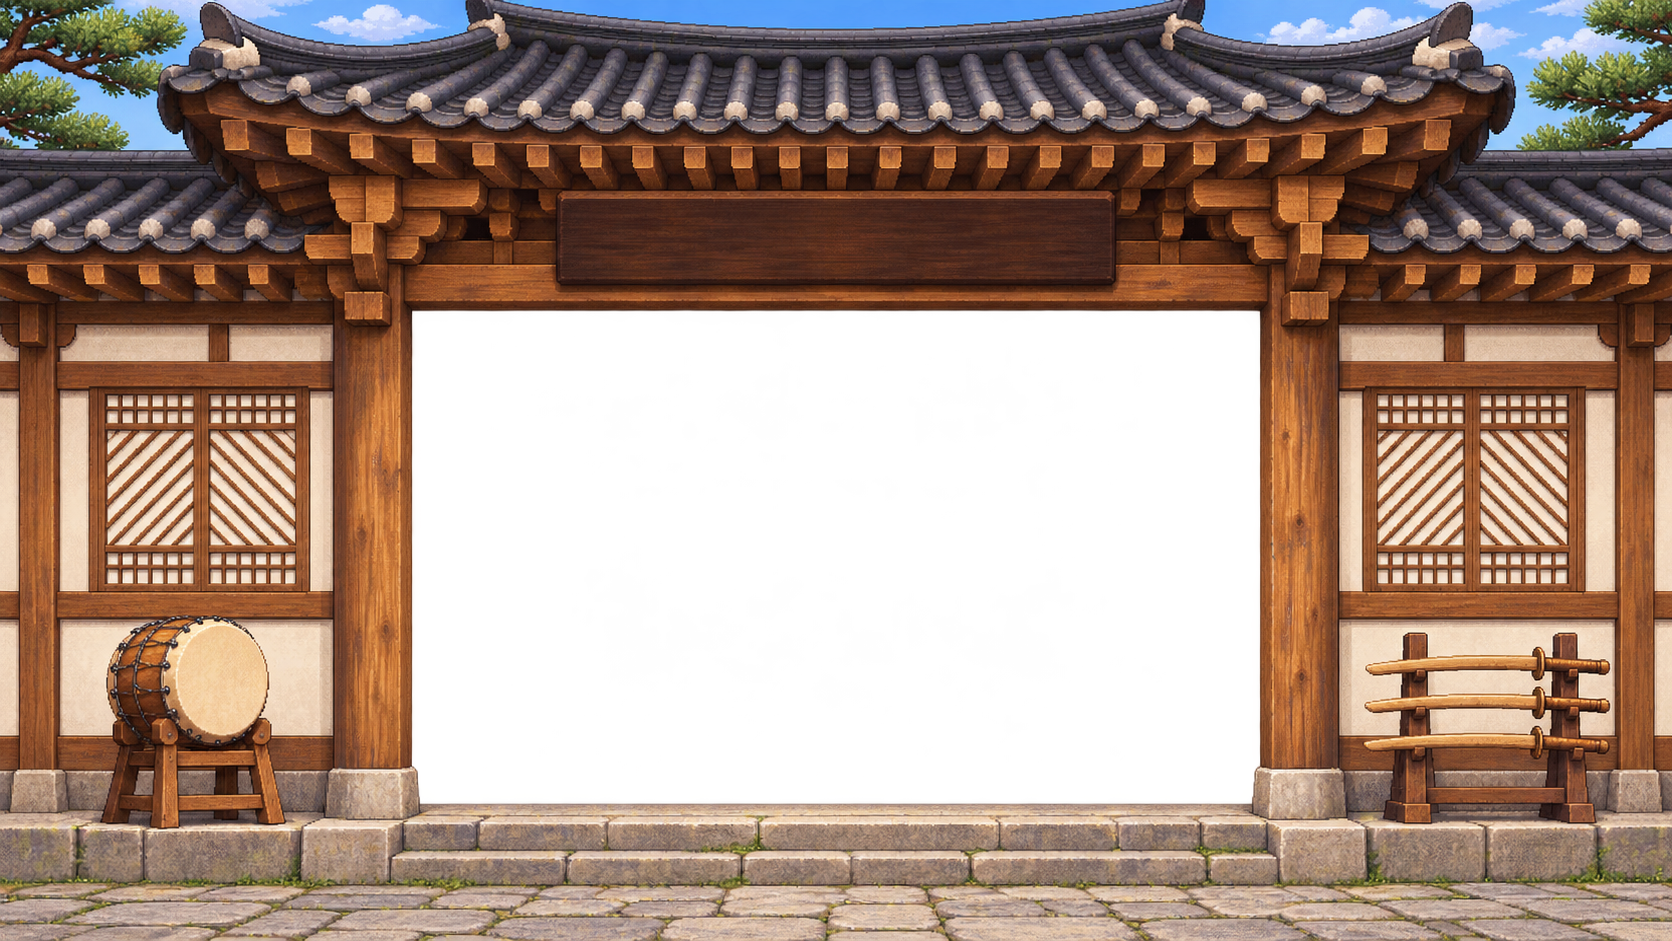
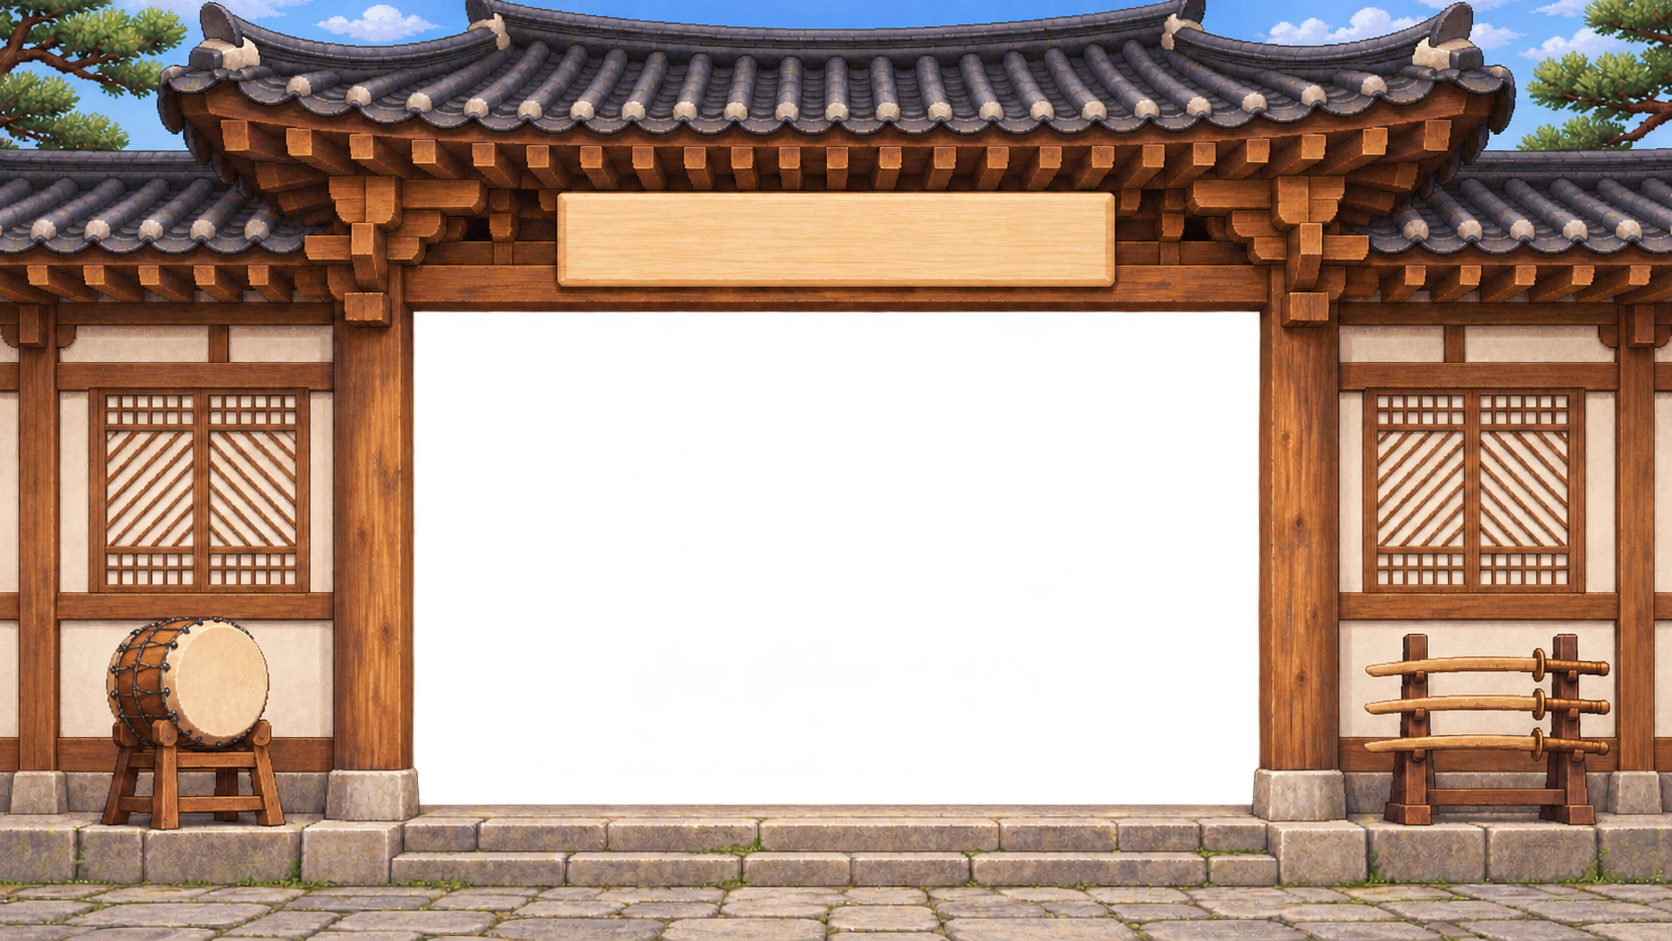
Lighten title plaque and disable lettering bounce

diff --git a/Assets/Game/Scripts/Editor/UILayout/DojoRenewalLayoutBuilder.cs b/Assets/Game/Scripts/Editor/UILayout/DojoRenewalLayoutBuilder.cs
@@ -66,13 +66,14 @@ namespace RhythmDojo.EditorTools
             entrance.rightDoor.offsetMin = entrance.rightDoor.offsetMax = Vector2.zero;
 
             view.ambientLights = System.Array.Empty<Image>();
-            Place((RectTransform)view.logo.transform, new Vector2(.5f, .746f), Vector2.zero, new Vector2(410, 76));
+            Place((RectTransform)view.logo.transform, new Vector2(.5f, .746f), Vector2.zero, new Vector2(410, 70));
             view.logoArtwork.gameObject.SetActive(false);
             view.title.enabled = true;
-            view.title.color = new Color(1f, .94f, .78f);
-            view.title.fontSize = 76;
+            view.title.color = new Color(.035f, .025f, .015f);
+            view.title.fontSize = 64;
             view.logoArtwork = view.title.rectTransform;
             Place(view.logoArtwork, new Vector2(.5f, .5f), new Vector2(0, 2), new Vector2(370, 80));
+            view.title.alignment = TextAnchor.MiddleCenter;
             var prompt = Image("Entrance Invitation", entrance.frame.transform, DojoEntranceAssets.Load("SettingsPanel"));
             view.entranceInvitation = prompt.gameObject;
             Place(prompt.rectTransform, new Vector2(.5f, .065f), Vector2.zero, new Vector2(375, 50));

diff --git a/Assets/Game/Scripts/Runtime/UI/MainMenuEntranceScreen.cs b/Assets/Game/Scripts/Runtime/UI/MainMenuEntranceScreen.cs
@@ -14,7 +14,7 @@ namespace RhythmDojo.UI
         [SerializeField] private MainMenuView view;
         [SerializeField] private AudioSource effects;
         [SerializeField, Min(1f)] private float beatsPerMinute = 120f;
-        [SerializeField, Range(0f, .3f)] private float titleBounceAmount = .08f;
+        [SerializeField, Range(0f, .3f)] private float titleBounceAmount = 0f;
         [SerializeField, Range(0f, .3f)] private float promptBounceAmount = 0f;
         [SerializeField, Range(.1f, 1f)] private float bounceDurationInBeats = .65f;
         private MainMenuCompositionRoot composition;
